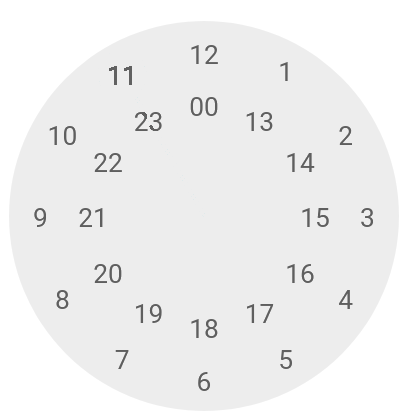
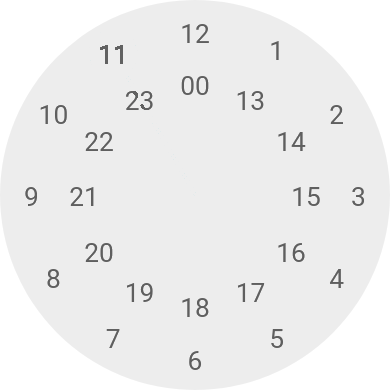
implemented timepicker

diff --git a/submission/src/components/timePicker/timePicker.js b/submission/src/components/timePicker/timePicker.js
@@ -11,6 +11,7 @@ const clock12h = images[0];
 const clock24h = images[1];
 const minutes = images[2];
 
+
 class TimePicker extends React.Component {
     constructor(props) {
         super(props);
@@ -20,12 +21,19 @@ class TimePicker extends React.Component {
             chooseHours: true
 
         }
+        this.id = Math.random()%1;
     }
 
     getHourAreas() {
-        let timeAreas = this.calculateAreas(80, 12, 100, 100, 0, i => this.setState({hours: i, minutes: this.state.minutes, chooseHours: false}));
+        let timeAreas = this.calculateAreas(80, 12, 100, 100, 0,
+          (i) => this.setState({hours: i,
+                                minutes: this.state.minutes,
+                                chooseHours: false}));
         if(this.props.format === 24) {
-            let timeAreas24 = this.calculateAreas(60, 12, 100, 100, 12, i => this.setState({hours: i, minutes: this.state.minutes, chooseHours: false}));
+            let timeAreas24 = this.calculateAreas(55, 12, 100, 100, 12,
+              (i) => this.setState({hours: i,
+                                    minutes: this.state.minutes,
+                                    chooseHours: false}));
             timeAreas.push.apply(timeAreas, timeAreas24);
         }
         return timeAreas;
@@ -39,8 +47,10 @@ class TimePicker extends React.Component {
             let x = radius * Math.cos(radian) + centerX;
             let y = radius * Math.sin(radian) + centerY;
             let coords = x + ',' + y + ',' + 5;
+            let key = "area" + radius + parts + i;
             timeAreas.push(
                 <area
+                    key={key}
                     shape="circle"
                     coords={coords}
                     href=""
@@ -54,11 +64,13 @@ class TimePicker extends React.Component {
         return timeAreas;
     }
     getMinuteAreas() {
-        return this.calculateAreas(80, 60, 100, 100, 0, i => this.setState({hours: this.state.hours, minutes: i, chooseHours: false}));
+        return this.calculateAreas(80, 60, 100, 100, 0,
+          (i) => this.setState({ hours: this.state.hours,
+                                minutes: i,
+                                chooseHours: false}));
     }
 
     render () {
-        console.log(this.state);
         let timeAreas;
         let circleUrl;
         if(this.state.chooseHours) {
@@ -72,15 +84,36 @@ class TimePicker extends React.Component {
             circleUrl = minutes;
             timeAreas =  this.getMinuteAreas();
         }
+        let paddedHours = this.state.hours.toString().padStart(2,"0");
+        let paddedMinutes = this.state.minutes.toString().padStart(2,"0")
+        let id = "#" + this.id;
         return <div className={styles.main}>
-            <div className={styles.clock}> {this.state.hours.toString().padStart(2,"0")} : {this.state.minutes.toString().padStart(2,"0")} </div>
-            <img className={styles.circle} src={circleUrl} width="200" height="200" alt="clock" useMap="#clockMap"/>
-            <map name="clockMap">
+            <div className={styles.clock}>
+              {paddedHours} : {paddedMinutes}
+            </div>
+            <img
+              className={styles.circle}
+              src={circleUrl}
+              alt="clock"
+              useMap={id}/>
+            <map name={this.id}>
                 {timeAreas}
             </map>
             <div className={styles.buttons}>
-                <button className={styles.button} onClick={event => { this.setState({hours: this.state.hours, minutes: this.state.minutes, chooseHours: true})}}>Back</button>
-                <button className={styles.button} onClick={event => { this.props.onTimePick(this.state.hours + ":" + this.state.minutes);}}>Done</button>
+                <button
+                  className={styles.button}
+                  onClick={ (event) => {
+                    this.setState({hours: this.state.hours,
+                                  minutes: this.state.minutes,
+                                  chooseHours: true})}}>
+                    Back
+                </button>
+                <button
+                  className={styles.button}
+                  onClick={ (event) => {
+                      this.props.onTimePick(this.state.hours + ":" + this.state.minutes);}}>
+                  Done
+                </button>
             </div>
 
 

diff --git a/submission/src/components/timePicker/timePicker.css b/submission/src/components/timePicker/timePicker.css
@@ -4,8 +4,15 @@
     padding-left: 75px;
 }
 
+.circle {
+  width: 200px;
+  height: 200px;
+}
+
 .main {
     width: 200px;
+    border: 1px grey solid;
+    padding: 5px;
 }
 
 .buttons {
